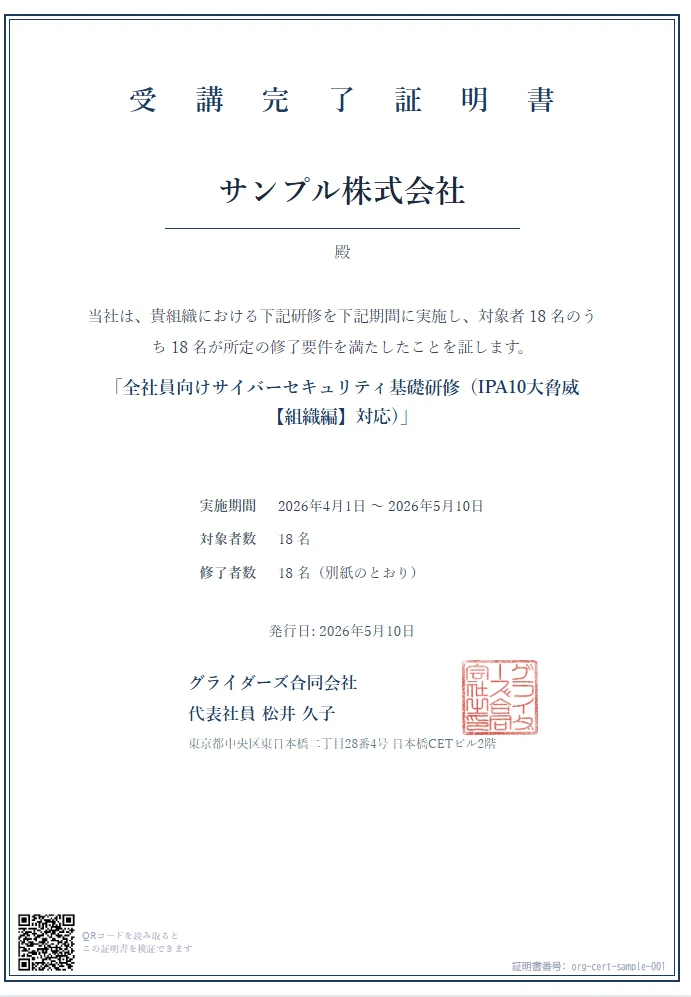
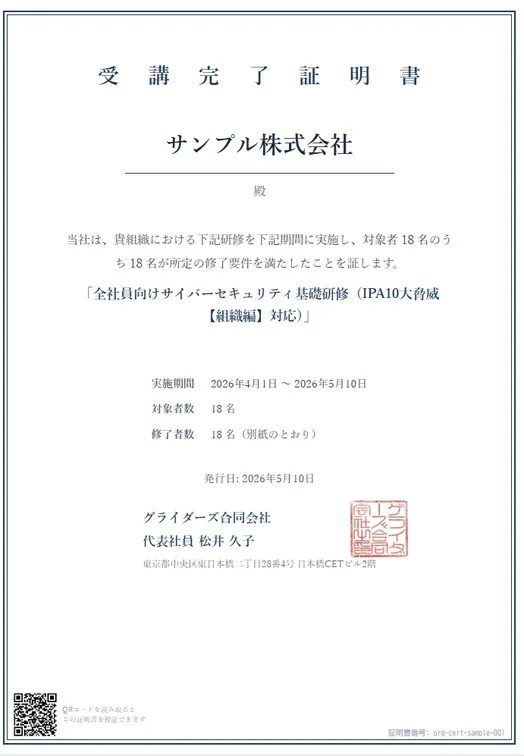
perf(smats.jp): 画像を WebP 化・実表示サイズに縮小し CLS を潰す
配信していた画像が実表示サイズに対して過大だった。とくに hero の
profile.jpg は 1024x1024・326KB で、表示は 420px 幅（CSS の max-width）。
LCP 要素がこの重さだと初期表示が素直に遅くなる。

- profile.jpg 1024px 326KB → profile.webp 840px 25KB（表示 420px の 2 倍）
- udemy_course.png 181KB → udemy_course.webp 14KB（元が 750px なので等倍維持）
- gliders-logo.png 1320x480 32KB → gliders-logo.webp 231x84 6KB（表示は高さ 28px）
- 証明書サンプル 2 枚を 524px 幅へ（26KB→13KB / 40KB→20KB）
  合計 605KB → 78KB（-87%）
- 全 img に width/height を付与してレイアウトシフトを抑止
- hero は fetchpriority="high"、それ以外は loading="lazy" + decoding="async"
- JSON-LD の Person.image も profile.webp に追従

og-card.png は対象外。OGP を読むクライアントには WebP 非対応のものが
残っており、かつページ読み込みには関与しない（LCP に影響しない）ため。

diff --git a/index.html b/index.html
@@ -1208,7 +1208,7 @@
                     </div>
                     <div class="hero-image-wrapper hero-enter hero-enter-4">
                         <div class="hero-image">
-                            <img src="assets/profile.jpg" alt="松井真也（Shinya Matsui）- 情報処理安全確保支援士・Udemy講師・Gliders Learn開発者">
+                            <img src="assets/profile.webp" width="840" height="840" fetchpriority="high" decoding="async" alt="松井真也（Shinya Matsui）- 情報処理安全確保支援士・Udemy講師・Gliders Learn開発者">
                         </div>
                     </div>
                 </div>
@@ -1328,7 +1328,7 @@
                     <!-- Udemy Business -->
                     <div class="activity-card reveal">
                         <div class="activity-image">
-                            <img src="assets/udemy_course.png" alt="Udemy Business 採用のランサムウェア対策コース - 松井真也">
+                            <img src="assets/udemy_course.webp" width="750" height="422" loading="lazy" decoding="async" alt="Udemy Business 採用のランサムウェア対策コース - 松井真也">
                         </div>
                         <div class="activity-content">
                             <span class="activity-badge badge-blue"><i class="fas fa-graduation-cap"></i> Udemy Business</span>
@@ -1368,7 +1368,7 @@
                 <div class="glearn-hero">
                     <div class="reveal">
                         <div class="glearn-brand">
-                            <img src="assets/gliders-logo.png" alt="Gliders Learn ロゴ">
+                            <img src="assets/gliders-logo.webp" width="231" height="84" loading="lazy" decoding="async" alt="Gliders Learn ロゴ">
                         </div>
                         <p class="glearn-catch">情報セキュリティ研修が、<br><span class="hl">監査で使える証拠</span>に。</p>
                         <p class="glearn-lead">
@@ -1386,11 +1386,11 @@
                     </div>
                     <div class="glearn-certs reveal reveal-delay-1">
                         <div class="glearn-cert">
-                            <img src="assets/personal-cert-sample.webp" alt="個人修了証のサンプル">
+                            <img src="assets/personal-cert-sample.webp" width="524" height="743" loading="lazy" decoding="async" alt="個人修了証のサンプル">
                             <span>個人修了証</span>
                         </div>
                         <div class="glearn-cert">
-                            <img src="assets/org-cert-sample.webp" alt="組織修了証明書のサンプル">
+                            <img src="assets/org-cert-sample.webp" width="524" height="756" loading="lazy" decoding="async" alt="組織修了証明書のサンプル">
                             <span>組織修了証明書</span>
                         </div>
                     </div>
@@ -1581,7 +1581,7 @@
                 "name": "松井真也",
                 "alternateName": "Shinya Matsui",
                 "url": "https://smats.jp/",
-                "image": "https://smats.jp/assets/profile.jpg",
+                "image": "https://smats.jp/assets/profile.webp",
                 "jobTitle": "情報処理安全確保支援士（RISS）",
                 "description": "情報処理安全確保支援士（RISS）・Udemy Business 採用講師。Pマーク・ISMS 監査で使える証拠まで残せる法人向けセキュリティ研修「Gliders Learn」を監修・提供。",
                 "knowsAbout": ["法人セキュリティ研修", "従業員教育", "Pマーク", "ISMS", "監査対応", "IPA 10大脅威", "ランサムウェア対策"],
